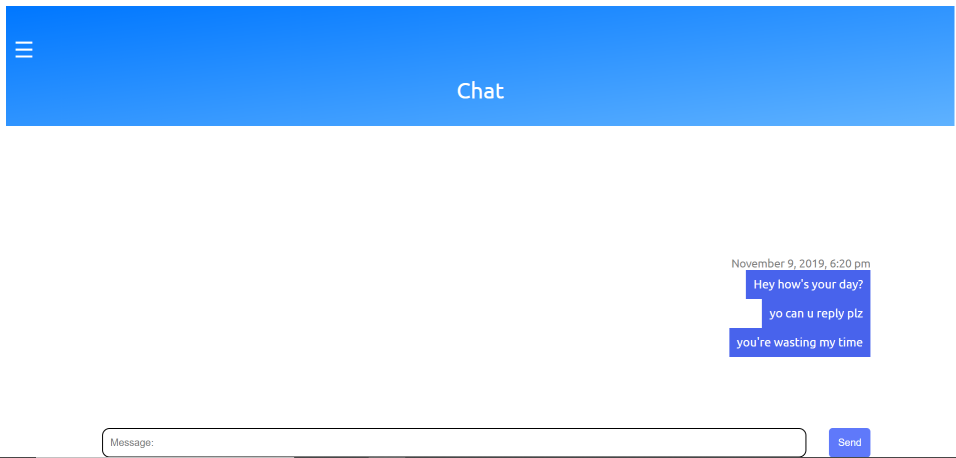
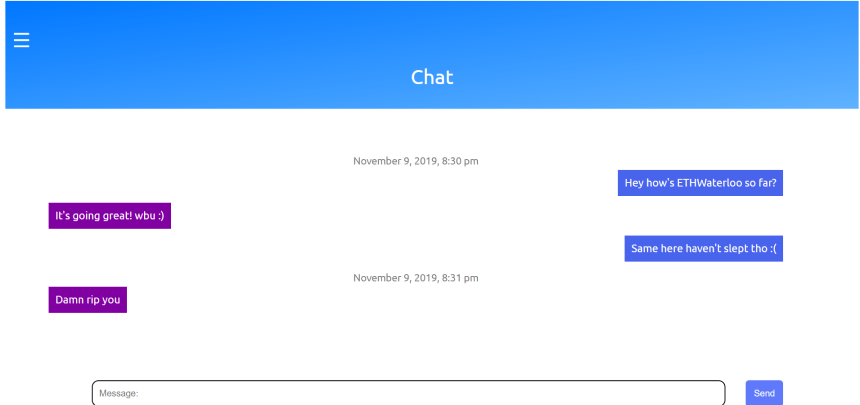
Final comments and polishing

diff --git a/style.css b/style.css
@@ -32,23 +32,12 @@ h2 {
   margin-bottom: 10px;
 }
 
-form {
-  margin: 0;
-  padding: 0;
-  width: 100%;
-}
-
+/*Part of landing page*/
 .divider {
   width: 100px;
   height: 3px;
   margin: 20px auto;
   background-color: #617BFF;
-}
-
-input:focus,
-textarea:focus {
-  outline: none;
-  border: 2px #617BFF solid;
 }
 
 .container {
@@ -57,18 +46,9 @@ textarea:focus {
   padding: 4% 0%;
   text-align: center;
 }
+/*End for landing page*/
 
-input[name="amount"] {
-  font-size: 20px;
-  font-weight: 600;
-}
-
-input[type=number]::-webkit-inner-spin-button,
-input[type=number]::-webkit-outer-spin-button {
-  -webkit-appearance: none;
-  margin: 0;
-}
-
+/*Main button styling*/
 .btn {
     border-radius: 5px;
     border: none;
@@ -79,6 +59,7 @@ input[type=number]::-webkit-outer-spin-button {
     transition: 0.5s;
 }
 
+/*Page for logged-in users*/
 #logged-in {
   height: 100%;
 }
@@ -95,31 +76,13 @@ input[type=number]::-webkit-outer-spin-button {
   cursor: pointer;
 }
 
+/*Logout button*/
 #btn-logout {
   position: relative;
   right: 0;
 }
 
-#user-balance {
-  font-size: 24px;
-  color: white;
-  font-weight: 600;
-  margin: 20px 0;
-}
-
-#user-address {
-  font-size: 18px;
-  color: white;
-  font-weight: 500;
-  margin: 0 auto;
-  word-break: break-word;
-  font-family: "SFMono-Regular", Consolas, "Liberation Mono", Menlo, Courier, monospace;
-  max-width: 230px;
-  background: rgba(255,255,255,0.05);
-  padding: 10px 20px;
-  border-radius: 7px;
-}
-
+/*Hamburger icon for sidebar*/
 .menu {
   font-size: 30px;
   font-weight: 600;
@@ -129,6 +92,7 @@ input[type=number]::-webkit-outer-spin-button {
   cursor: pointer;
 }
 
+/*Side navbar*/
 .sidenav {
   height: 100%;
   width: 0;
@@ -142,6 +106,7 @@ input[type=number]::-webkit-outer-spin-button {
   padding-top: 60px;
 }
 
+/*Links on sidebar*/
 .sidenav a {
   color: black;
   font-size: 25px;
@@ -153,6 +118,7 @@ input[type=number]::-webkit-outer-spin-button {
   transition: 0.5s;
 }
 
+/*X button for closing sidebar*/
 #closeNav {
   font-size: 30px;
   position: absolute;
@@ -167,25 +133,19 @@ input[type=number]::-webkit-outer-spin-button {
     background-image: linear-gradient(to bottom right, rgb(0, 119, 255), rgb(95, 178, 255));
 }
 
+/*Place where chat messages are displayed*/
 #messages {
     position: fixed;
     padding: 5%;
     height: 40%;
     width: 85%;
     display: flex;
-    align-items: flex-end;
+    align-items: flex-start;
     flex-direction: column-reverse;
     overflow: auto;
 }
 
-.sender {
-  float: left;
-}
-
-.receiver {
-  float: right;
-}
-
+/*Input and button for entering messages*/
 #enter {
     position: absolute;
     position: fixed;
@@ -196,6 +156,7 @@ input[type=number]::-webkit-outer-spin-button {
     margin-top: 10px;
 }
 
+/*Input and button for entering contact info*/
 #addContact {
     display: flex;
     width: 80%;
@@ -203,6 +164,7 @@ input[type=number]::-webkit-outer-spin-button {
     margin-top: 10px;
 }
 
+/*Inputs for messaging and contact info*/
 #messageInput, #nameInput {
     color: grey;
     width: 90%;
@@ -218,25 +180,46 @@ input[type=number]::-webkit-outer-spin-button {
     padding: none;
 }
 
-#message {
+/*Messages from user formatted on the right*/
+.senderMessage {
     background-color: #4863EC;
     padding: 10px;
     border: 0;
     outline: 0;
     color: white;
+    margin: 5px 0px;
+    margin-left: auto;
 }
 
+/*Messages from receiver formatted on the left*/
+.receiverMessage {
+    background-color: rgb(129, 0, 161);
+    padding: 10px;
+    border: 0;
+    outline: 0;
+    color: white;
+    margin: 5px 0px;
+}
+
+/*Displays time at which message was sent*/
 .time {
     font-size: 15px;
     color: grey;
     margin-top: 10px;
+    align-self: center;
 }
 
-#message:hover {
+.senderMessage:hover {
     background-color: rgb(120, 122, 253);
     transition: 0.5s;
 }
 
+.receiverMessage:hover {
+  background-color: rgb(202, 82, 202);
+  transition: 0.5s;
+}
+
+/*Contact info div*/
 .contact {
   cursor: pointer;
   margin-bottom: 5px;
@@ -259,6 +242,7 @@ input[type=number]::-webkit-outer-spin-button {
   float: right;
 }
 
+/*Where contacts are stores*/
 #contacts {
   margin-top: 10px;
 }

diff --git a/fortmatic.js b/fortmatic.js
@@ -29,8 +29,7 @@ let handleLogout = () => {
 let send = () => {
     var input = document.getElementById("messageInput").value;
     var div = document.createElement("DIV");
-    div.setAttribute("id", "message");
-    div.setAttribute("class", "sender");
+    div.setAttribute("class", "senderMessage");
 
     var text = document.createTextNode(input);
     div.appendChild(text);
